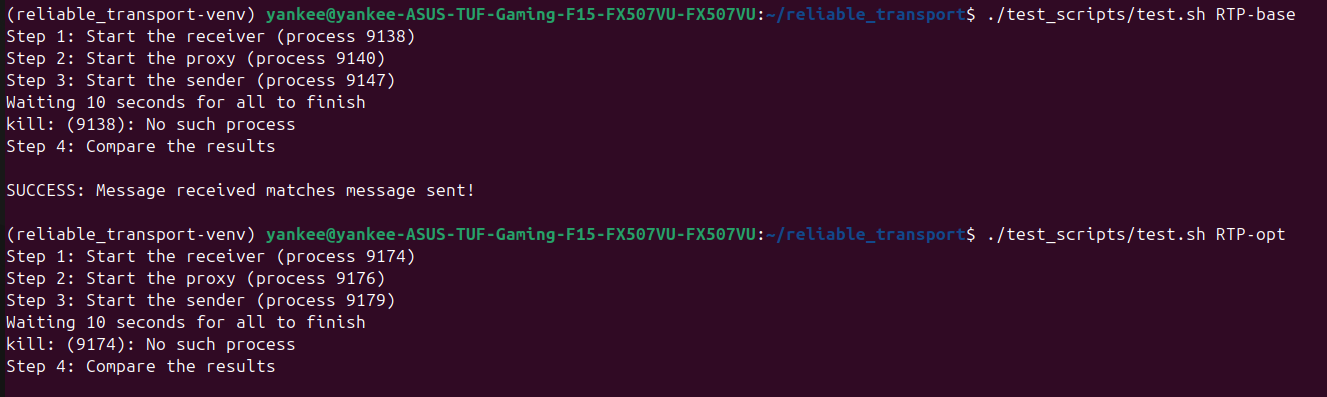
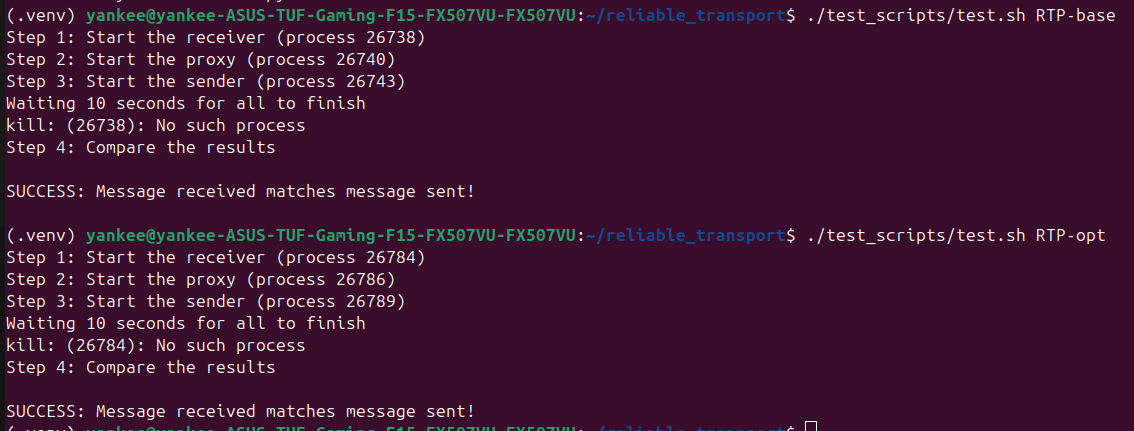
cap nhat README

Changed region(s): [[0.0, 0.4232, 0.9877, 1.0], [0.0, 0.0, 0.9877, 0.3929]]

diff --git a/README.md b/README.md
@@ -229,6 +229,21 @@ Your code with optimizations in Part 3 should be able to pass the same tests as 
 
 For manual testing, please refer to testing instructions for [Part 1 and Part 2](#testing-your-solutions-part-1--part-2).
 
+## Báo cáo thực hiện
+
+Đã hoàn thiện `sender.py` và `receiver.py` trong `RTP-base`. Sender đọc dữ liệu từ stdin, chia thành các gói tối đa 1456 byte và tạo CRC cho từng gói. Receiver kiểm tra CRC, lưu tạm các gói đến lệch thứ tự rồi ghi dữ liệu nhận được ra stdout theo đúng thứ tự. Sender dùng cửa sổ trượt và bộ đếm 500 ms để truyền lại các gói chưa được xác nhận.
+
+Trong `RTP-opt`, em đã triển khai ACK riêng theo sequence number và lưu trạng thái ACK của các gói đang gửi. Khi hết 500 ms, sender chỉ truyền lại những gói chưa được xác nhận.
+
+### Kết quả demo
+
+Em chạy hai phiên bản với dữ liệu mẫu qua test script có proxy. Cả hai lần, chương trình so sánh xác nhận dữ liệu nhận khớp dữ liệu gửi.
+
+| Phiên bản | Lệnh kiểm thử | Kết quả |
+|---|---|---|
+| `RTP-base` | `./test_scripts/test.sh RTP-base` | `SUCCESS: Message received matches message sent!` |
+| `RTP-opt` | `./test_scripts/test.sh RTP-opt` | `SUCCESS: Message received matches message sent!` |
+
 ## Submission and Grading
 
 ### Submit your work
@@ -262,11 +277,3 @@ Your code in both Part 2 (RTP-base) and Part 3 (RTP-opt) should pass our testing
   - 10: correct received message
 - Deductions based on late policies
 - For this project, you are not required to modify the report (but please feel free to include citations and grading notes there).
-
-## Acknowledgements
-
-This programming project is based on UC Berkeley's Project 2 from EE 122: Introduction to Communication Networks, and Johns Hopkins University's Project 2 from EN.601.414/614: Computer Networks.
-
-## Survey
-
-Please fill up the survey when you finish your project: [Survey link](https://forms.gle/Nk9Vq3TZUckkkc8R9).
